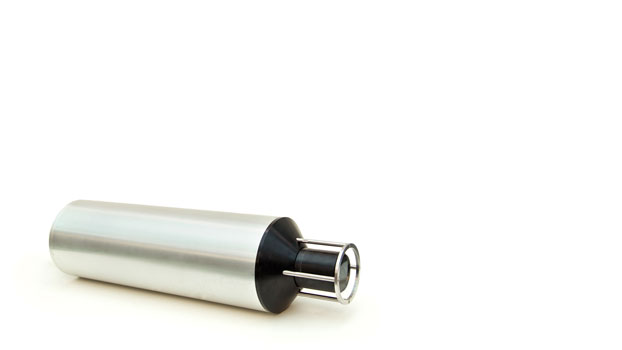
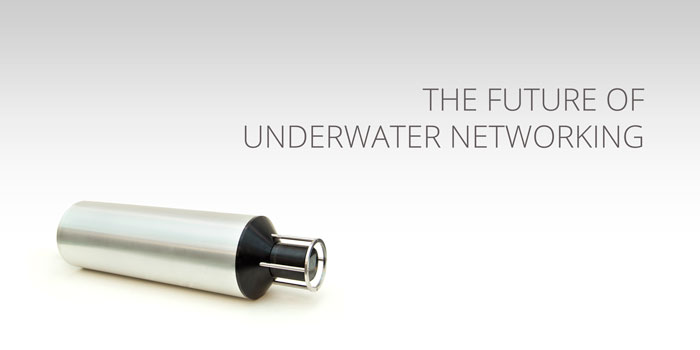
Updated images on homepage, text is now uniform throughout

diff --git a/solutions/index.html b/solutions/index.html
@@ -3,26 +3,30 @@ layout: default
 title: Solutions
 ---
 <div class="solutions">
-<h1> SOLUTIONS</h1>
+<h1>Solutions</h1>
 	<div class ="text">
-	Subnero’s solution suite comprises the following elements,
+	
+	<p>Subnero’s solution suite comprises the following elements,</p>
 
 	<h2>Underwater Networking</h2>
-	The Subnero underwater modem provides a flexible platform for a variety of underwater networks and applications. With substantial computing power packed into a compact form factor, users are able to implement and deploy complex algorithms in the modem, hence allowing robust communication between underwater nodes as well as driving the innovation of new protocols and applications.
+	<p>The Subnero underwater modem provides a flexible platform for a variety of underwater networks and applications. With substantial computing power packed into a compact form factor, users are able to implement and deploy complex algorithms in the modem, hence allowing robust communication between underwater nodes as well as driving the innovation of new protocols and applications.
 	The modem provides options for customization and extension at many levels, allowing network protocols as well as physical layer algorithms to be implemented and tested easily.
+	</p>
 
 	<h2>Underwater Navigation</h2>
-	Subnero’s solution involves flexible acoustic communication nodes and intelligence, to form a GPS-like infrastructure underwater to aid underwater vehicles in self-localization as well as communication. The nodes can be used as beacons for underwater position estimation, and could transparently relay information to allow the vehicles to communicate over long distances, to other vehicles, underwater installations or surface nodes. These nodes may be easily dropped into water in an area of operation. Once in water, the nodes will self-organize into an Underwater Positioning Network (UPN). This network may then be accessed by Autonomous Underwater Vehicles (AUVs) to estimate their location and navigate efficiently, and to transparently relay information to a remote operator, other AUVs, or underwater sensor installations. 
+	<p>Subnero’s solution involves flexible acoustic communication nodes and intelligence, to form a GPS-like infrastructure underwater to aid underwater vehicles in self-localization as well as communication. The nodes can be used as beacons for underwater position estimation, and could transparently relay information to allow the vehicles to communicate over long distances, to other vehicles, underwater installations or surface nodes. These nodes may be easily dropped into water in an area of operation. Once in water, the nodes will self-organize into an Underwater Positioning Network (UPN). This network may then be accessed by Autonomous Underwater Vehicles (AUVs) to estimate their location and navigate efficiently, and to transparently relay information to a remote operator, other AUVs, or underwater sensor installations. 
+	</p>
 
 	<h2>Monitoring & Sensing</h2>
-	To safeguard and manage freshwater resources, effective water sampling techniques over space and time are needed to detect and monitor contamination of local water bodies. Typical manual sampling is too labor-intensive and slow to capture these events.
+	<p>To safeguard and manage freshwater resources, effective water sampling techniques over space and time are needed to detect and monitor contamination of local water bodies. Typical manual sampling is too labor-intensive and slow to capture these events.
 
 	Fixed sensing buoys are able to provide real-time data but incapable of providing spatial coverage. Autonomous vehicles (AUVs) are able to provide spatial coverage, but are economically and logistically expensive to operate.
 
 	Subnero's solution contains scalable, low cost and minimally propelled autonomous underwater platforms that can carry in-situ water quality probes and operates with little logistics. These mobile nodes will be equipped with navigation, sensing and real time data transmission capabilities. It can autonomously execute missions provided by users and perform vertical profiling at points of interest. Users are then able to access the data and control the missions in real-time.
 
-	Subnero provides professional deployment services and operational support for its clients. 
-	<br><br>We welcome enquiries at 
+	Subnero provides professional deployment services and operational support for its clients.
+	</p>
+	We welcome enquiries at 
 
 	<a href="mailto:info@subnero.com">info@subnero.com</a>
 </div>

diff --git a/css/main.css b/css/main.css
@@ -24,7 +24,9 @@ body {
   font-size: 100%; }*/
 
 h1 { margin-bottom: 0em; }
-p { margin: 1em 0; }
+p {
+  margin: 1em 0; 
+}
 
 a         { color: #00a; }
 a:hover   { color: #000; }
@@ -142,11 +144,11 @@ div#footer{
 .fadein { 
   position:relative; 
   height:350px; 
-  width:622px; 
+  width:700px; 
   margin-left: auto ; 
   margin-right: auto;
   box-shadow: 1px 1px 15px  #bbbbbb;
-  padding: 1px;
+  padding: 0px;
  }
 
 .fadein img { position:absolute; left:0; top:0; }
@@ -187,9 +189,10 @@ div#footer{
   text-align: justify;
   padding-left:40px;
   margin-top: 30px;
-  font-size: 110%;
+  font-size: 100%;
   font-weight: 400;
   color: #333333;
+  line-height: 170%;
 }
 .about h1{
   color :#e6782f;
@@ -323,9 +326,10 @@ text-align: left;
   font-weight: 400;
   font-family: 'Open Sans';
   text-align: justify;
-  font-size: 110%;
+  font-size: 100%;
   font-weight: 400;
   color: #333333;
+  line-height: 170%;
 }
 .solutions h1{
   color :#e6782f;

diff --git a/index.html b/index.html
@@ -22,9 +22,4 @@ $(function(){
 	</div>
 </div>
 
-<div class="tag">
-<h1>THE FUTURE OF UNDERWATER NETWORKING</h1>
-
-</div>
-
 
